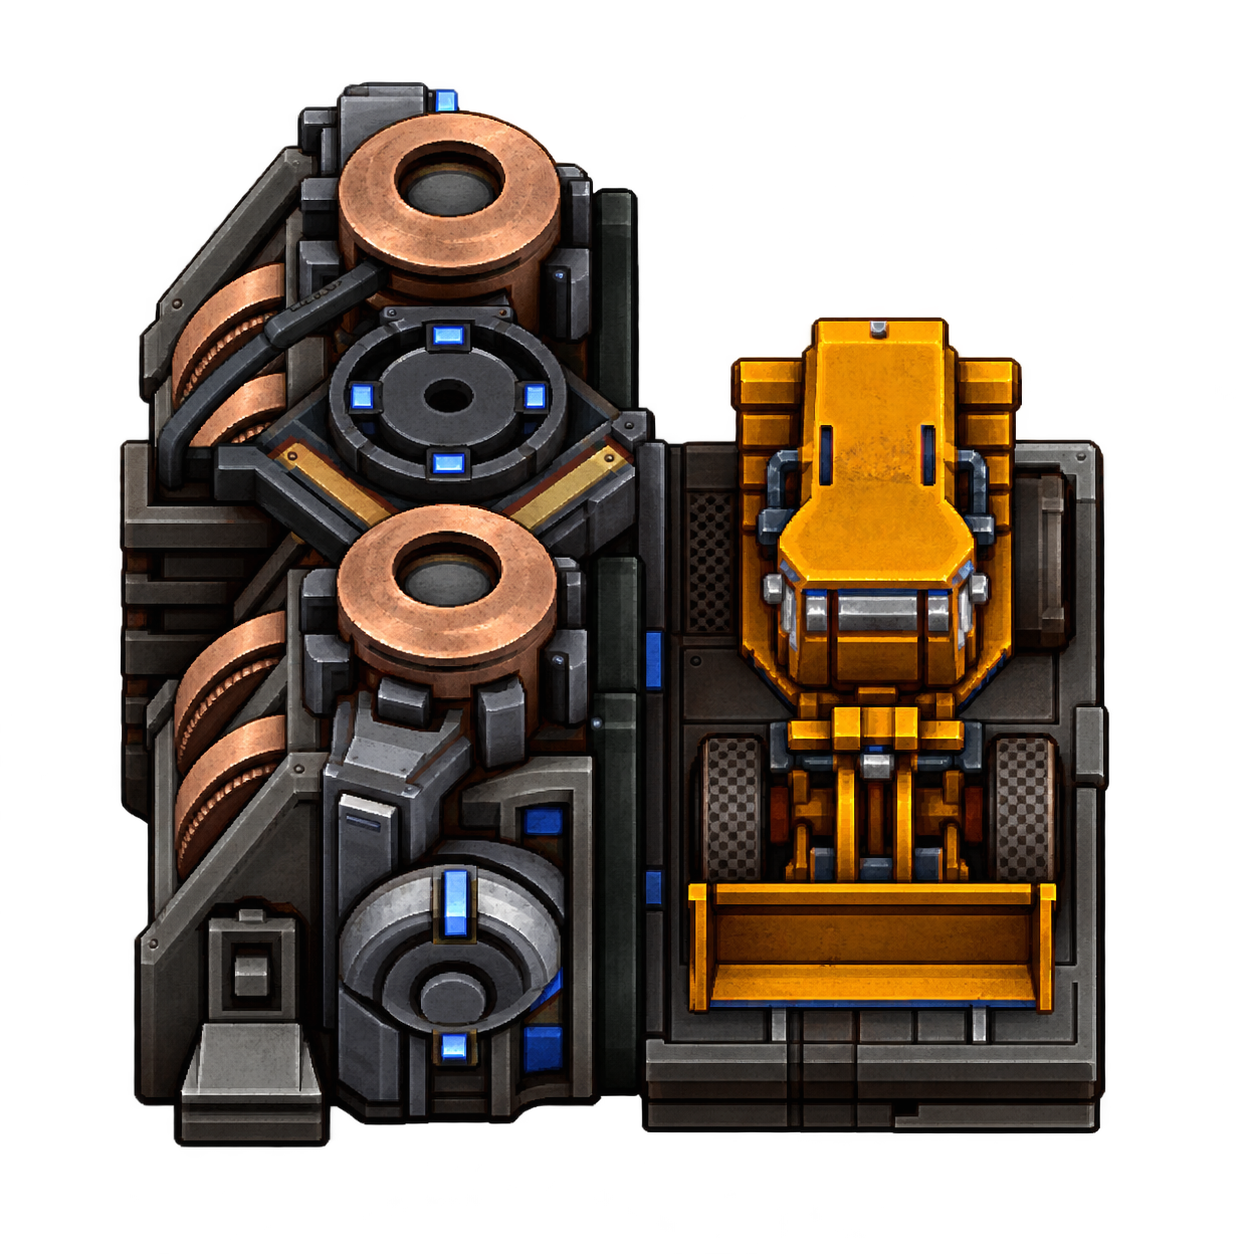
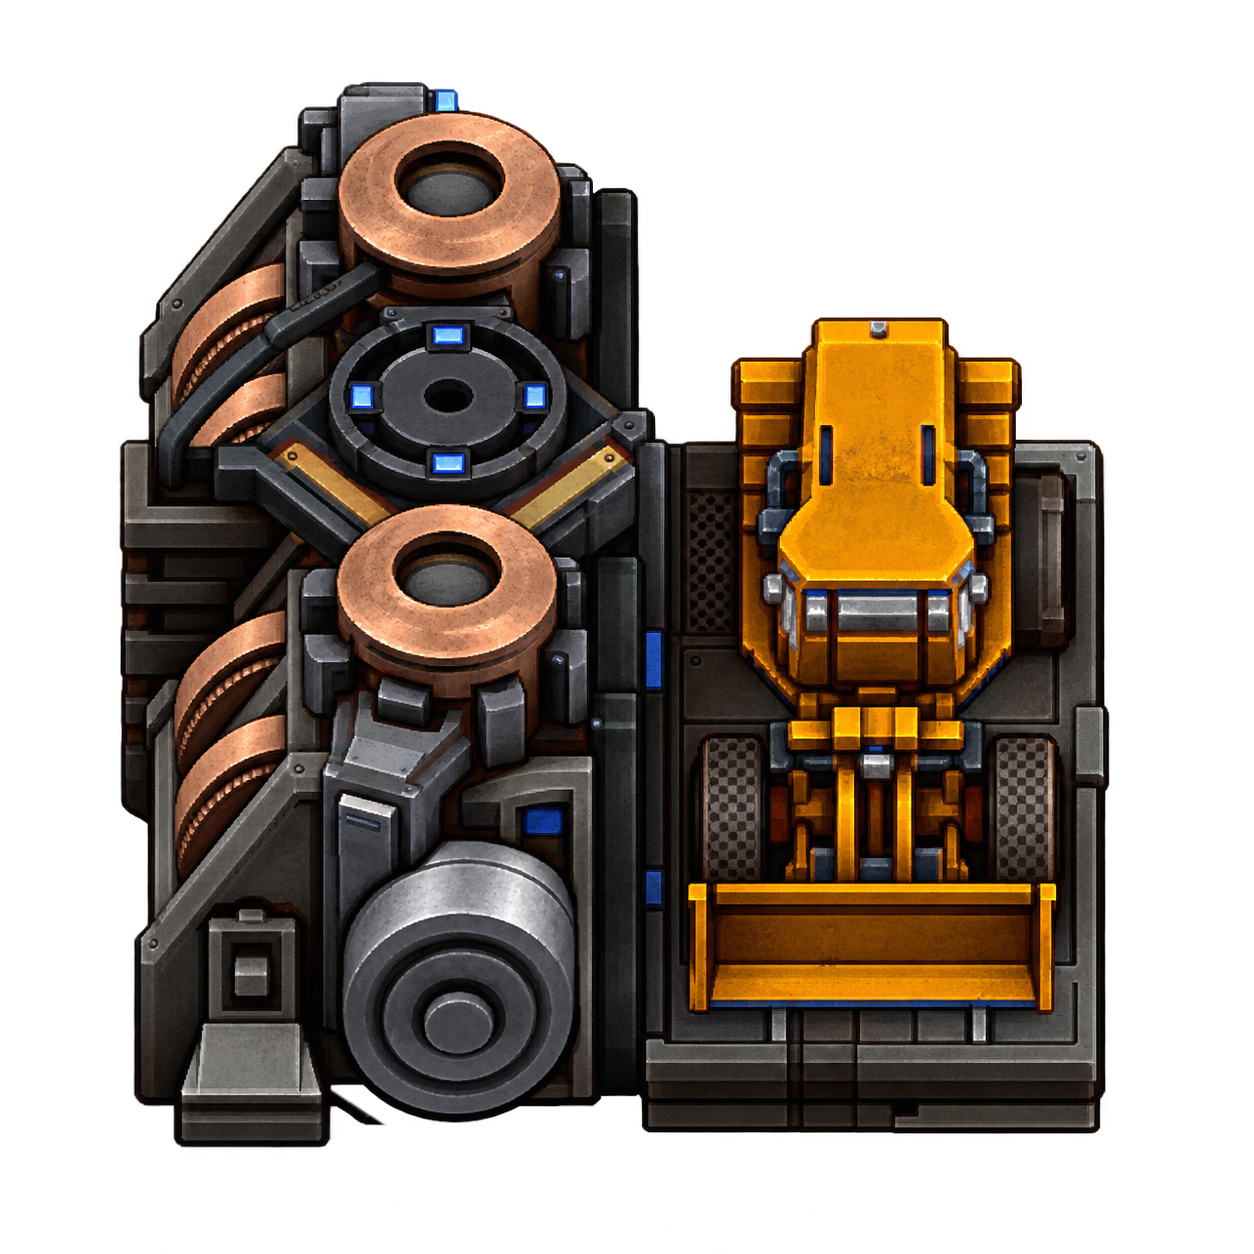
Correct vehicle factory front cylinder geometry

Changed region(s): [[0.2488, 0.6531, 0.4665, 0.9019]]

diff --git a/docs/tools/build_trucks_animation.py b/docs/tools/build_trucks_animation.py
@@ -13,7 +13,7 @@ OUT = ROOT / 'graphics/entity'
 MASTER = ROOT / 'docs/artwork/ai-redraw-0.5.1/fabrik-trucks-icon-source.png'
 CROP = (114, 80, 1107, 1141)
 SIZE = (200, 216)
-REGIONS = {'upper': (44, 61, 93, 99), 'front': (38, 168, 101, 223),
+REGIONS = {'upper': (44, 61, 93, 99), 'front': (38, 168, 101, 233),
            'rear': (42, 15, 99, 64)}
 FRAMES = 16
 
@@ -27,9 +27,8 @@ def placed(image):
 def build():
     master = Image.open(MASTER).convert('RGBA')
     clean = master.copy()
-    # Continue the metal across the complete axial recess, including its lip.
-    for x0, y0, x1, y1 in [(427, 84, 465, 113), (421, 860, 483, 947),
-                           (421, 1025, 483, 1073)]:
+    # The corrected front is already unmarked. Remove only the rear recess.
+    for x0, y0, x1, y1 in [(427, 84, 465, 113)]:
         for y in range(y0, y1):
             left, right = master.getpixel((x0 - 1, y)), master.getpixel((x1, y))
             for x in range(x0, x1):
@@ -65,8 +64,9 @@ def build():
         def point(angle, radius=1, depth=0):
             if name == 'upper':
                 return (448 + 87 * radius * math.sin(angle), 397 - 65 * radius * math.cos(angle))
-            center_y = 993 if name == 'front' else 245
-            return (453 + 108 * radius * math.sin(angle), center_y - 58 * radius * math.cos(angle) - depth)
+            if name == 'front':
+                return (458 + 104 * radius * math.sin(angle), 1018 - 90 * radius * math.cos(angle) - depth)
+            return (453 + 108 * radius * math.sin(angle), 245 - 58 * radius * math.cos(angle) - depth)
 
         for n in range(FRAMES):
             frame = Image.new('RGBA', master.size)
@@ -76,7 +76,7 @@ def build():
                 angle = marker * math.tau / count + n * math.tau / FRAMES * (-1 if name == 'upper' else 1)
                 angle = (angle + math.pi) % math.tau - math.pi
                 if name != 'upper':
-                    extent = 66 if name == 'front' else 85
+                    extent = 60 if name == 'front' else 85
                     for half_width, depth, color, lip in [
                         (0.17, extent + 5, (16, 20, 28, 255), True),
                         (0.11, extent, (22, 120, 252, 255), False),
@@ -100,6 +100,11 @@ def build():
                         draw.line([point(a, 0.94), point(b, 0.94)], fill=(149, 233, 255, 255), width=2)
             frame.putalpha(ImageChops.multiply(frame.getchannel('A'), visible))
             sheet.paste(placed(frame).crop(box), (width * n, 0))
+            if name == 'front' and n == 0:
+                # Inventory and world sprites must use the same corrected model.
+                icon = master.copy()
+                icon.alpha_composite(frame)
+                icon.resize((64, 64), Image.Resampling.LANCZOS).save(OUT / 'fabrik-trucks-icon.png')
         sheet.save(OUT / ('fab-trucks-' + name + '.png'))
 
 

diff --git a/docs/tools/validate_parent_content.py b/docs/tools/validate_parent_content.py
@@ -209,7 +209,7 @@ trucks_layers = []
 for name, width, height, shift in [
     ('base', 256, 256, [0.5, 0]),
     ('upper', 49, 38, [-0.4296875, -0.75]),
-    ('front', 63, 55, [-0.4140625, 1.0546875]),
+    ('front', 63, 65, [-0.4140625, 1.1328125]),
     ('rear', 57, 49, [-0.3984375, -1.3828125]),
     ('shadow', 256, 256, [0.5, 0]),
 ]:

diff --git a/docs/decisions/ai-artwork.md b/docs/decisions/ai-artwork.md
@@ -69,4 +69,4 @@ The owner accepted the weapons-factory animation on 2026-10-09. It applies that 
 
 The cyborg factory uses fixed vat shells and a separate liquid layer: green fill, processing through brown to pink, then draining. Preserve the original 16-frame cycle at speed0.2 and keep the wall ports visible when empty. Its liquid texture comes from the accepted AI master; colors and levels follow the original sheet. Graphical confirmation of this candidate is pending.
 
-The vehicle factory applies the accepted rotor method to four blue upper indicators and paired front/rear cutouts. Keep its loader stationary and mask the rear indicators behind the copper housing. Preserve the original 16-frame cycle and sheet; graphical confirmation of this candidate is pending.
+The vehicle factory applies the accepted rotor method to four blue upper indicators and paired front/rear cutouts. Keep its loader stationary and mask the rear indicators behind the copper housing. The owner identified an incomplete front cylinder in the initial master: correct the local drum to a full concentric face with a centered hub, and align both the moving cutouts and inventory icon with it. Preserve the original 16-frame cycle and sheet; graphical confirmation of this correction is pending.
